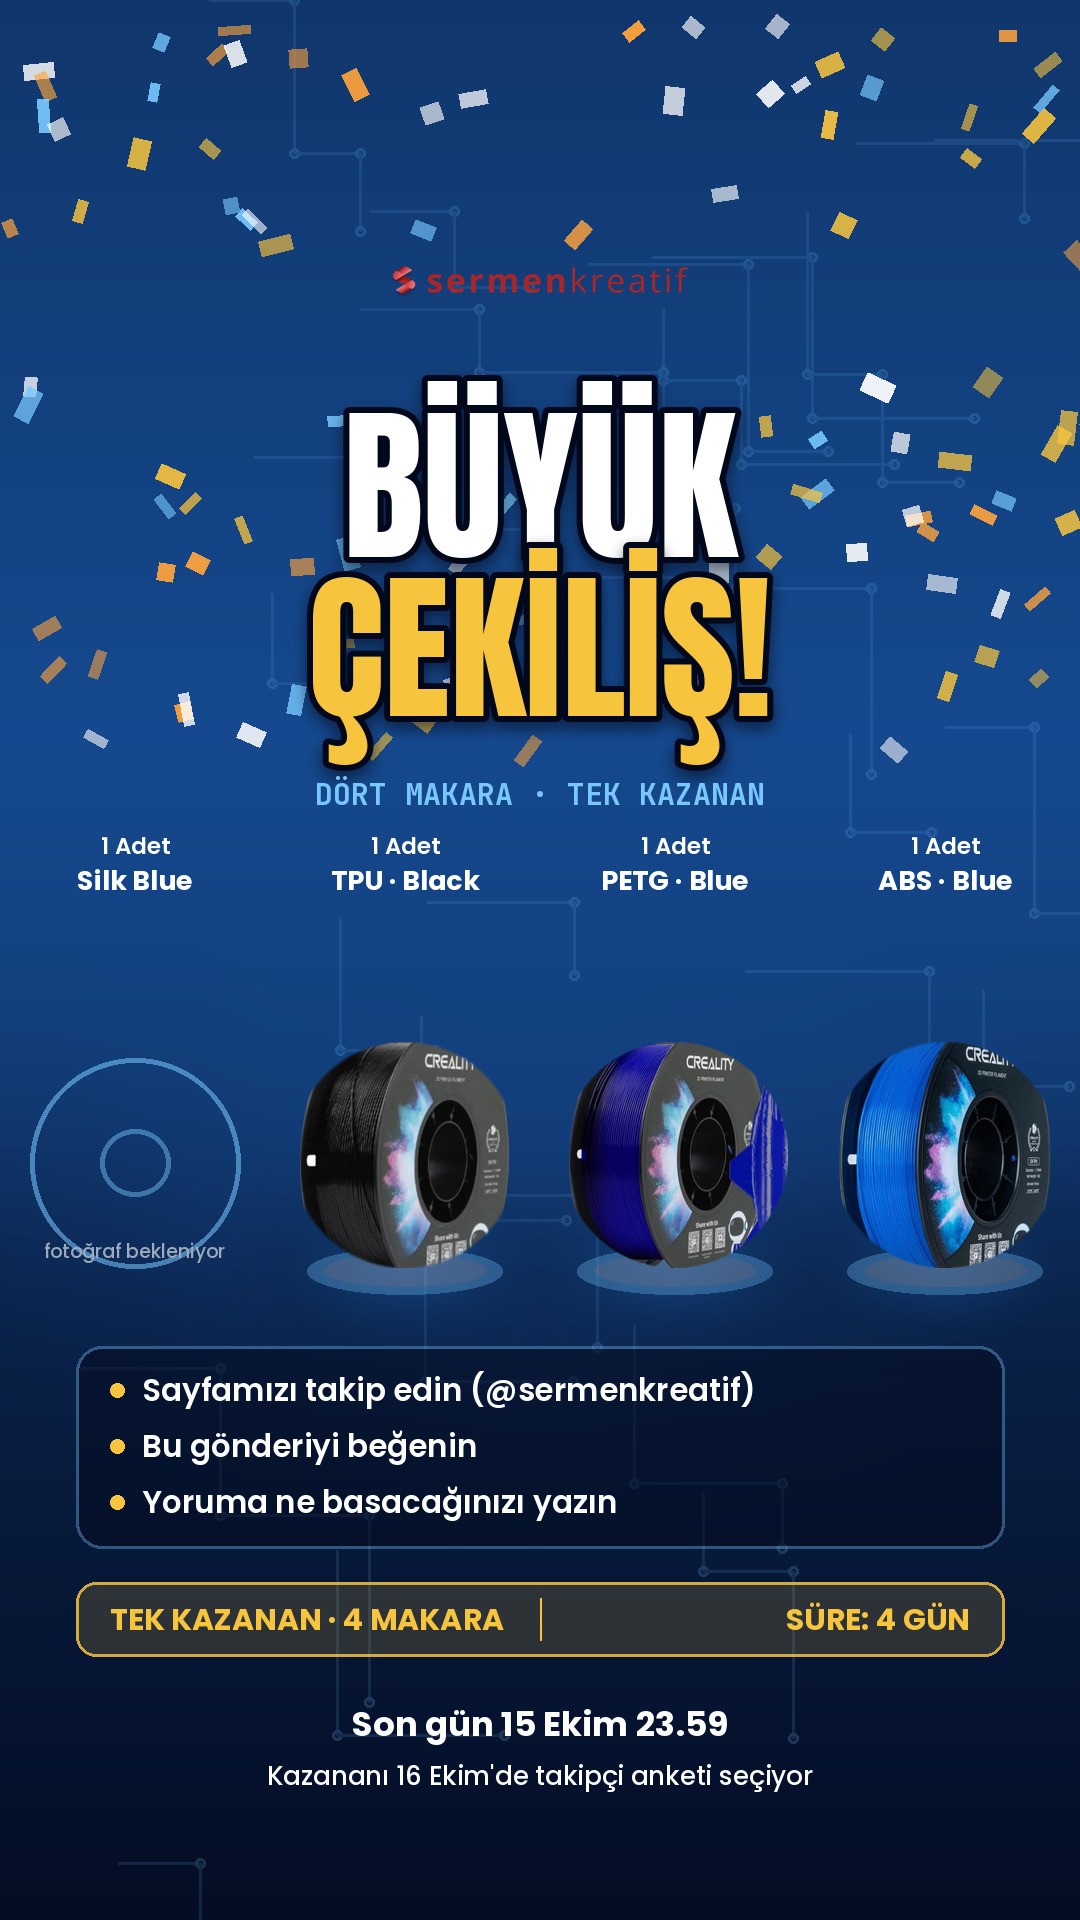
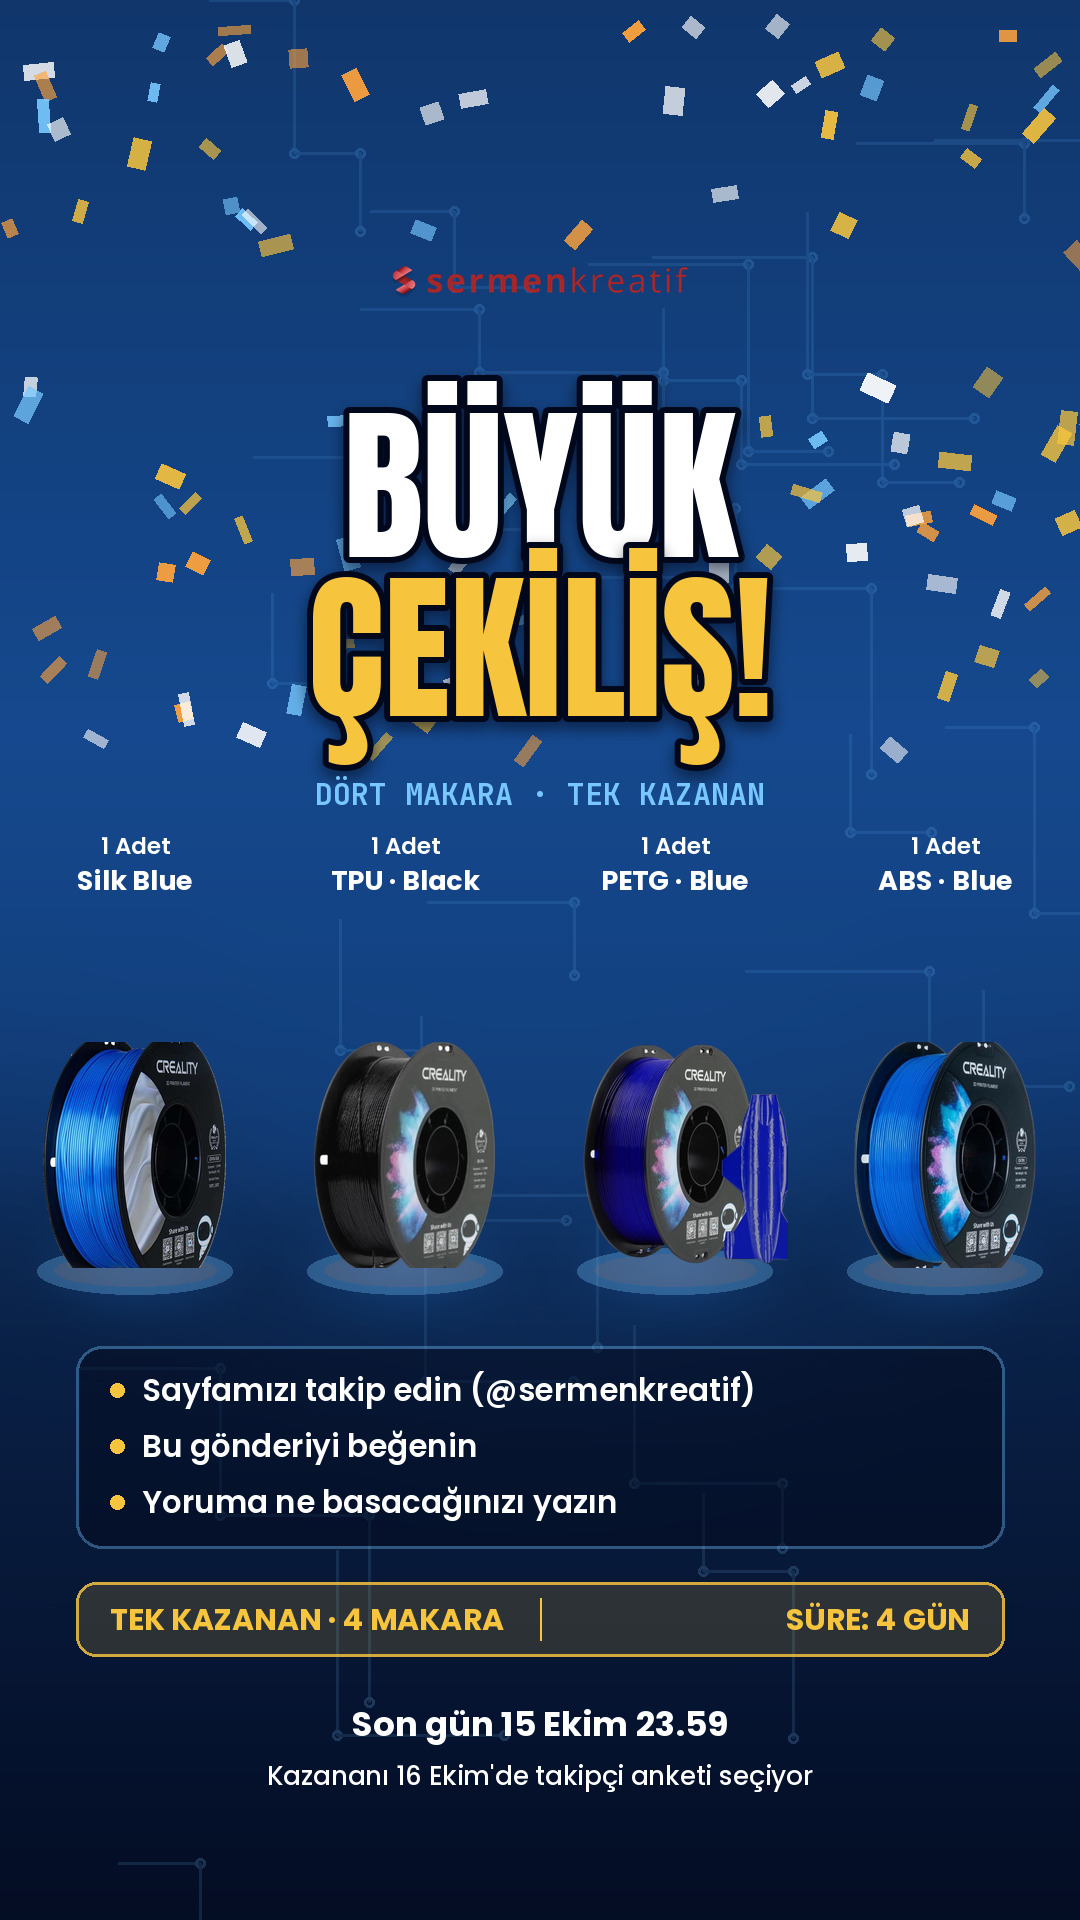
Silk Blue karesi eklendi; makaralar artık yarım görünmüyor
Daire maskesi açılı çekilmiş makaraların kenarını kesiyordu — kaldırıldı.
Kırpma makaranın merkezine göre dikdörtgen: makara tam kalıyor, yanındaki
basılmış parça dışarıda, dördü aynı çapta.

Silk Blue karesi İlhan'dan geldi, beyaz zemin temizlendi.

Claude-Session: https://claude.ai/code/session_01DAKoXHyqFjWGSzqcjwTyja

diff --git a/arac/cekilis_afis.py b/arac/cekilis_afis.py
@@ -21,14 +21,14 @@ KOK = os.path.dirname(os.path.dirname(os.path.abspath(__file__)))
 sys.path.insert(0, KOK)
 import uret as U                                         # noqa: E402
 
-def makara(dosya, pay=1.07):
-    """Kareden yalnız makarayı kırp — dördü aynı çapta dursun.
+def makara(dosya, pay=1.24):
+    """Kareden makarayı al — dördü aynı çapta ve tam görünsün.
 
-    Ürün kareleri farklı çerçevelenmiş, bazılarında makaranın yanında
-    basılmış bir parça duruyor. Kutu sınırına göre ölçekleyince makaralar
-    farklı boyda çıkıyordu. Makara daire olduğu için en büyük iç daireyi
-    (uzaklık dönüşümünün tepesi) buluyoruz: merkezi ve yarıçapı oradan,
-    kırpma da ona göre. Yanındaki parça bu kırpmanın dışında kalıyor.
+    Makara daire; en büyük iç daireyi (uzaklık dönüşümünün tepesi) bulup
+    merkezini ve yarıçapını oradan okuyoruz. Kırpma bu merkeze göre
+    dikdörtgen: makaranın kendisi tam kalıyor, yanındaki basılmış parça
+    dışarıda. Daire maskesi KULLANILMIYOR — makaralar açılı çekilmiş,
+    maske kenarlarını kesip yarım gösteriyordu.
     """
     import numpy as np
     from scipy import ndimage
@@ -36,21 +36,15 @@ def makara(dosya, pay=1.07):
     if not os.path.exists(yol):
         return None
     im = Image.open(yol).convert("RGBA")
-    a = (np.asarray(im.split()[-1]) > 24).astype(np.uint8)
-    u = ndimage.distance_transform_edt(a)
+    al = (np.asarray(im.split()[-1]) > 24).astype(np.uint8)
+    u = ndimage.distance_transform_edt(al)
     cy, cx = np.unravel_index(int(np.argmax(u)), u.shape)
-    r = float(u.max()) * pay
-    kutu = (int(cx - r), int(cy - r), int(cx + r), int(cy + r))
+    r = float(u.max())
+    kutu = (int(cx - r * pay), int(cy - r * pay),
+            int(cx + r * pay), int(cy + r * pay))
     kare = Image.new("RGBA", (kutu[2] - kutu[0], kutu[3] - kutu[1]),
                      (0, 0, 0, 0))
     kare.alpha_composite(im, (-kutu[0], -kutu[1]))
-    # Köşede kalan yan parça kırıntısını temizle: daire dışını sil
-    maske = Image.new("L", kare.size, 0)
-    ImageDraw.Draw(maske).ellipse([0, 0, kare.width - 1, kare.height - 1],
-                                  fill=255)
-    maske = maske.filter(ImageFilter.GaussianBlur(2))
-    alfa = kare.split()[-1].point(lambda v: v)
-    kare.putalpha(Image.composite(alfa, Image.new("L", kare.size, 0), maske))
     return kare
 
 

diff --git a/KAMPANYA.md b/KAMPANYA.md
@@ -78,12 +78,11 @@ otomasyonla çekildi. Afiş her makarayı kendi çapına göre ölçekliyor
 (kutu sınırına göre değil), yanındaki basılmış parçayı kırpıyor; böylece
 dördü aynı boyda duruyor.
 
-**Silk Blue karesi eksik.** `sermenkreatif.com/creality-cr-pla-silk-blue-18661`
-sayfasında ürün fotoğrafı yok, site "RESİM HAZIRLANIYOR" yer tutucusu
-veriyor. İlk denemede ticimax klasöründen yan ürünün (Silk Rainbow) karesi
-gelmişti — yanlış ürün olduğu için silindi, afişte o göze "fotoğraf
-bekleniyor" halkası konuyor. Çözüm: makaranın tek karesi (sade zemin,
-600 px+) ya da ödülü sitede fotoğrafı olan bir Silk rengiyle değiştirmek.
+**Silk Blue karesi İlhan'dan geldi.** Satıcı sayfasında ürün fotoğrafı
+yok (site "RESİM HAZIRLANIYOR" yer tutucusu veriyor), ilk denemede
+ticimax klasöründen yan ürünün karesi gelmişti. Doğru kare 12 Ekim'de
+elle eklendi: `gorsel/urun/kesik-cekilis-silk-blue.png`. Sayfaya
+fotoğraf konulursa otomasyon da çekebilir.
 
 ## Dolandırıcılık uyarısı
 
